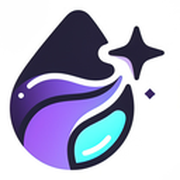
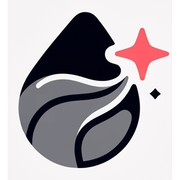
Update LiquidCopy brand assets and document Simple UI test path.
Replace logo/favicon with the new mark and add README steps for Settings → Chat scrape → Plan → Queue to Zernio.

diff --git a/web/src/pages/Landing.css b/web/src/pages/Landing.css
@@ -50,8 +50,10 @@
 
 .landing-mark-img {
   display: block;
-  height: 36px;
+  height: 40px;
   width: auto;
+  max-width: min(240px, 55vw);
+  object-fit: contain;
 }
 
 .landing-nav-link {
@@ -82,8 +84,9 @@
 
 .landing-brand-img {
   display: block;
-  width: min(100%, 420px);
+  width: min(100%, 480px);
   height: auto;
+  object-fit: contain;
 }
 
 @media (max-width: 640px) {

diff --git a/web/src/pages/workspace/Shell.css b/web/src/pages/workspace/Shell.css
@@ -28,8 +28,10 @@
 
 .shell-brand-img {
   display: block;
-  height: 32px;
+  height: 36px;
   width: auto;
+  max-width: min(220px, 48vw);
+  object-fit: contain;
 }
 
 .shell-nav {

diff --git a/README.md b/README.md
@@ -143,13 +143,70 @@ npm run dev       # http://localhost:3000
 1. `npm run api:dev` (or `npm run dev:stack`)
 2. Open http://localhost:5173 → **Settings**
 3. Toggle **Use real data**, confirm API URL `http://localhost:8787`, **Ping API**
-4. Save Firecrawl / LLM settings (synced to the API process)
-5. Overview → **Run workflow**; Checkpoints / Platforms / Knowledge talk to the live API
+4. Save Firecrawl / LLM / Zernio settings (synced to the API process)
 
 Simulation mode (default) keeps using in-browser fixtures and does not need the API.
+
 ---
 
-## Testing
+## How to test (Simple UI end-to-end)
+
+Use this path to go from a website scrape to carousels posted in Zernio.
+
+### 1. Start the stack
+
+```bash
+npm run dev:stack
+```
+
+- UI: http://localhost:5173  
+- API: http://localhost:8787  
+- Open Carrusel: http://localhost:3000  
+
+### 2. Configure Settings
+
+Open **Settings** and:
+
+1. Turn on **Simple UI**
+2. Turn on **Use real data**
+3. Add your **Firecrawl** API key
+4. Add your **Zernio** API key (base URL `https://zernio.com/api/v1`; optional account ID / platform)
+5. Install [Ollama](https://ollama.com) locally **or** set an API key for your LLM provider (OpenAI / Anthropic / compatible), then pick model + base URL
+6. Confirm Open Carrusel base URL is `http://localhost:3000`
+7. **Save** (and **Ping API** if you want a quick health check)
+
+For Ollama, a typical setup is:
+
+```bash
+ollama pull llama3.1
+# optional embeddings for RAG
+ollama pull nomic-embed-text
+```
+
+### 3. Chat — scrape your website into RAG
+
+1. Go to **Chat**
+2. Ask the agent to scrape your website and fill in relevant business data, e.g.  
+   `Ingest https://your-company.com and save the company profile to the knowledge base / RAG.`
+3. Wait until the agent confirms the data was saved to RAG / the knowledge base
+
+### 4. Plan — generate the testing plan
+
+1. Go to **Plan**
+2. Click **Generate plan**
+3. Wait for:
+   - 7 hypotheses grounded in RAG/KB (via your LLM)
+   - One carousel per hypothesis for the next 7 days
+
+### 5. Queue all to Zernio
+
+1. Still on **Plan**, click **Queue all to Zernio**
+2. Open [Zernio](https://zernio.com) → **Posts**
+3. You should see the carousels posted (or saved as drafts if no social account is connected)
+
+---
+
+## Automated tests
 
 Property-based tests (fast-check, ≥100 runs where specified) live in `tests/pbt/`.
 
@@ -162,6 +219,7 @@ npx vitest --run tests/pbt/kb-merge.pbt.test.ts tests/pbt/rag-retrieval.pbt.test
 Each property test is tagged: `// Feature: content-creator-ai, Property N: …`
 
 ---
+
 
 ## Importing the shared library
 
